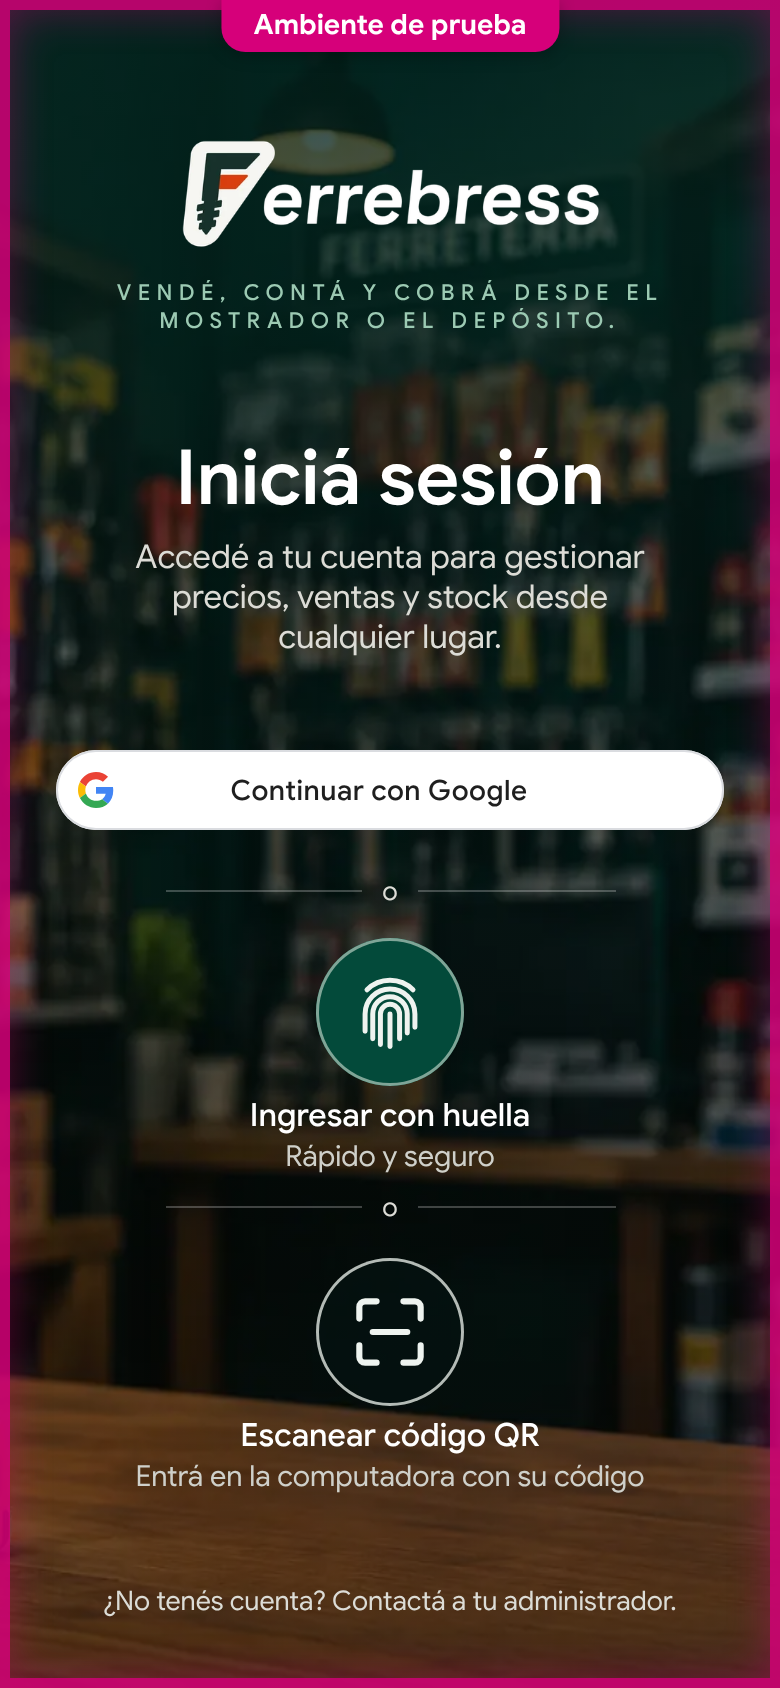
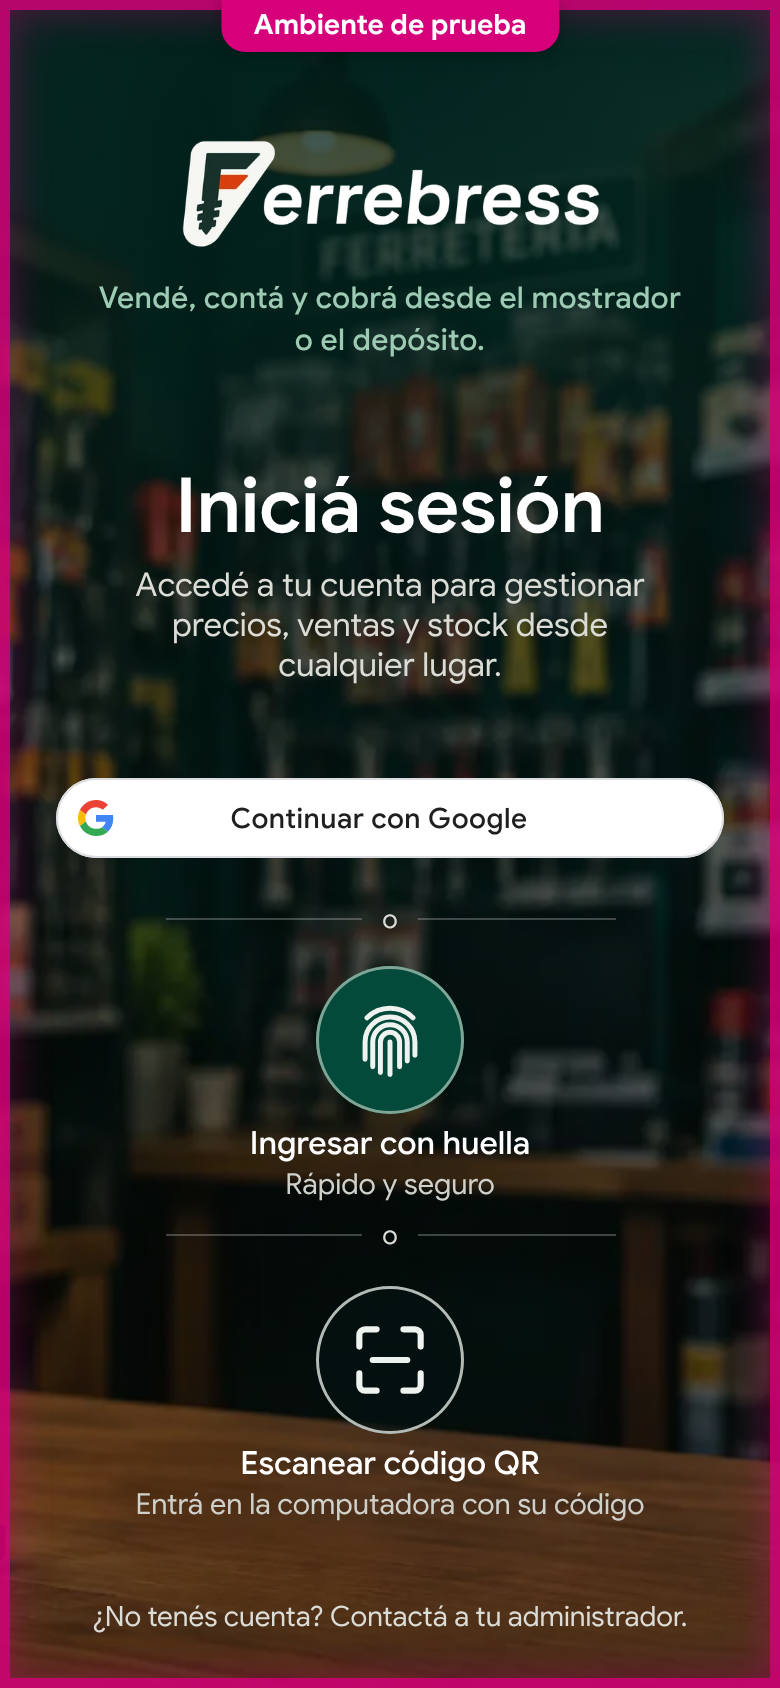
Entrar: Carlos aprobó la entrada oscura del celular
Con el lema a 15 px en minúsculas y el pie a 14 px, la opción 3 de la comparación. Queda anotada en
screens.md: en el celular, la entrada oscura; en la computadora, la de siempre.

Claude-Session: https://claude.ai/code/session_01BmbhiYJAfQvWshUgYzn7JL

diff --git a/docs/design/mockups/sign-in-phone-dark/final/sign-in.css b/docs/design/mockups/sign-in-phone-dark/final/sign-in.css
@@ -343,7 +343,7 @@ body[data-state="intentos"] #notice { display: flex; }
   /* La marca: el logo blanco y el lema en mayúsculas espaciadas. */
   .brand { order: 1; display: flex; flex-direction: column; align-items: center; padding-top: 70px; }
   .brand-logo img { width: 209px; height: auto; }
-  .brand-motto { margin-top: 15px; font-size: 11px; line-height: 14px; font-weight: 500; letter-spacing: 0.29em; text-transform: uppercase; color: var(--oscuro-lema); }
+  .brand-motto { margin: 15px auto 0; max-width: 300px; font-size: 15px; line-height: 21px; font-weight: 500; letter-spacing: 0.01em; color: var(--oscuro-lema); }
 
   .right { order: 2; display: flex; flex-direction: column; }
   .card { display: flex; flex-direction: column; align-items: center; }
@@ -374,7 +374,7 @@ body[data-state="intentos"] #notice { display: flex; }
   .round-way small { font-size: 14.5px; line-height: 19px; color: var(--oscuro-texto-3); }
   .round-way:focus-visible { outline-color: #fff; }
 
-  .no-account { order: 4; margin-top: auto; padding-top: 34px; font-size: 13.5px; line-height: 19px; color: var(--oscuro-texto-2); }
+  .no-account { order: 4; margin-top: auto; padding-top: 34px; font-size: 14px; line-height: 20px; color: var(--oscuro-texto-2); }
 
   /* Apagados: sobre lo oscuro, sin el gris de la entrada clara. */
   .round-way.off { opacity: 0.38; filter: none; }

diff --git a/docs/chapters/01-sign-in/screens.md b/docs/chapters/01-sign-in/screens.md
@@ -5,7 +5,7 @@ funcionando en el [visor](https://carlos-illobre.github.io/ferrebress/).
 
 | # | Pantalla | Qué se tiene que poder hacer | Maqueta |
 |---|---|---|---|
-| 1 | La entrada | Entrar con Google; con la huella en el celular; en la computadora, ver el QR; ver los mensajes de no autorizada, sin conexión, intentos y sesión cerrada | **Aprobada**: `mockups/sign-in/adapted/`, con su naranja propio (#D83F0E), distinto del de «Mostrador» |
+| 1 | La entrada | Entrar con Google; con la huella en el celular; en la computadora, ver el QR; ver los mensajes de no autorizada, sin conexión, intentos y sesión cerrada | **Aprobada**: en la computadora, `mockups/sign-in/adapted/`, con su naranja propio (#D83F0E), distinto del de «Mostrador»; en el celular, `mockups/sign-in-phone-dark/final/`, oscura, desde una imagen de Carlos, con su letra (Google Sans), sus colores y sus íconos: no tiene que parecerse a la computadora |
 | 1b | Entrando (la espera mientras se abre la sesión) | Ver cómo entra (Google, la huella o el celular), el camino hasta el local y los pasos: el hecho y «Abriendo tu sesión» | Celular: **aprobada**, la capa «Entrando» de `mockups/sign-in/adapted/`. Computadora: **aprobada**, `mockups/sign-in-entering/final/`: el panel de la derecha de la variante 1 del director (`desktop/variant-1-scene/`) en lugar de la tarjeta, sobre la entrada de siempre |
 | 1c | Google cargando (el lugar del botón mientras Google lo dibuja) | Ver que Google está cargando, que no cargó (con «Reintentar») o que hace falta internet; el botón aparece sin que nada salte | **Aprobada**: `mockups/sign-in-google-loading/final/`, sobre la variante 2 del director, «El hilo» |
 | 2 | El marco vacío | Ver el menú con «Pronto», minimizarlo a íconos, la luz de conexión y la tarjeta de la persona; salir; el área de trabajo en blanco | **Aprobada**: `mockups/app-frame/final/`, sobre la variante 1 del director (`variant-1-evolution/`) |

diff --git a/docs/design/mockups/sign-in-phone-dark/final/changes.md b/docs/design/mockups/sign-in-phone-dark/final/changes.md
@@ -128,6 +128,5 @@ Arriba a la izquierda, las herramientas de la maqueta: el momento de Google (en 
 - **«Escanear código QR»** dice debajo «Entrá en la computadora con su código», en lugar de «Ingresá
   desde tu computadora», que se podía entender al revés.
 - **Con un aviso en pantalla, el pie queda abajo del borde:** está bien así.
-- **El tamaño de los textos chicos** (el lema y el pie) está por decidir: `text-sizes-comparison.webp`
-  muestra los de la imagen (11 y 13,5 px), los dos a 14 px en mayúsculas, y el lema a 15 px en
-  minúsculas con el pie a 14 px.
+- **Los textos chicos:** Carlos eligió, de las tres opciones de `text-sizes-comparison.webp`, el lema
+  a 15 px en minúsculas (con la frase larga se lee de un vistazo) y el pie a 14 px.
